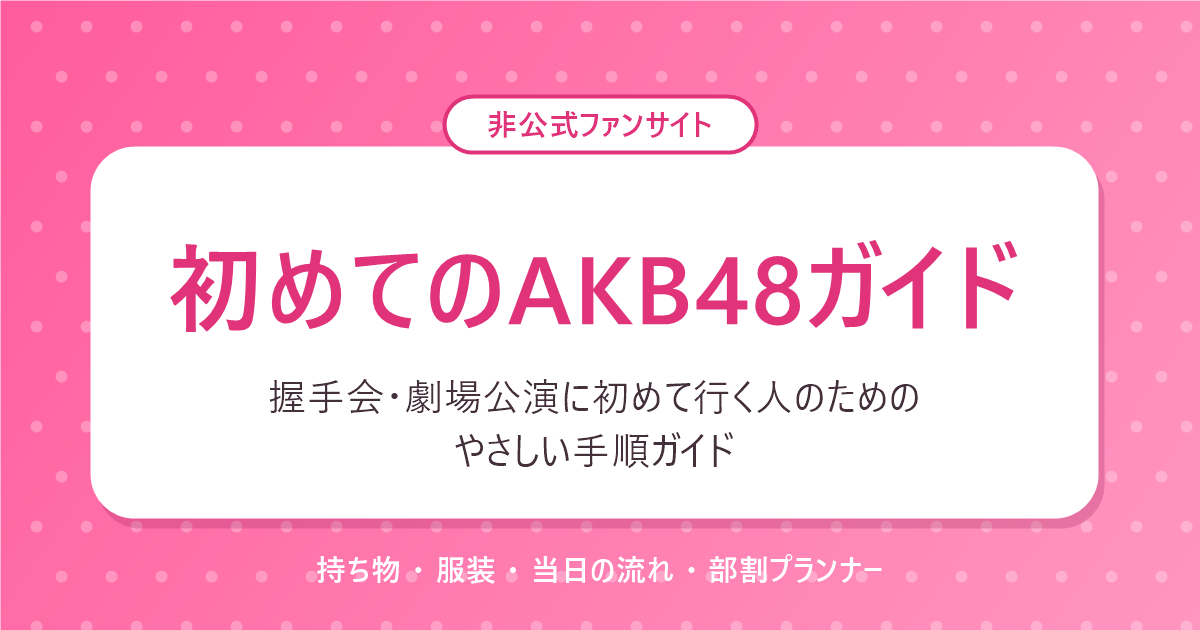
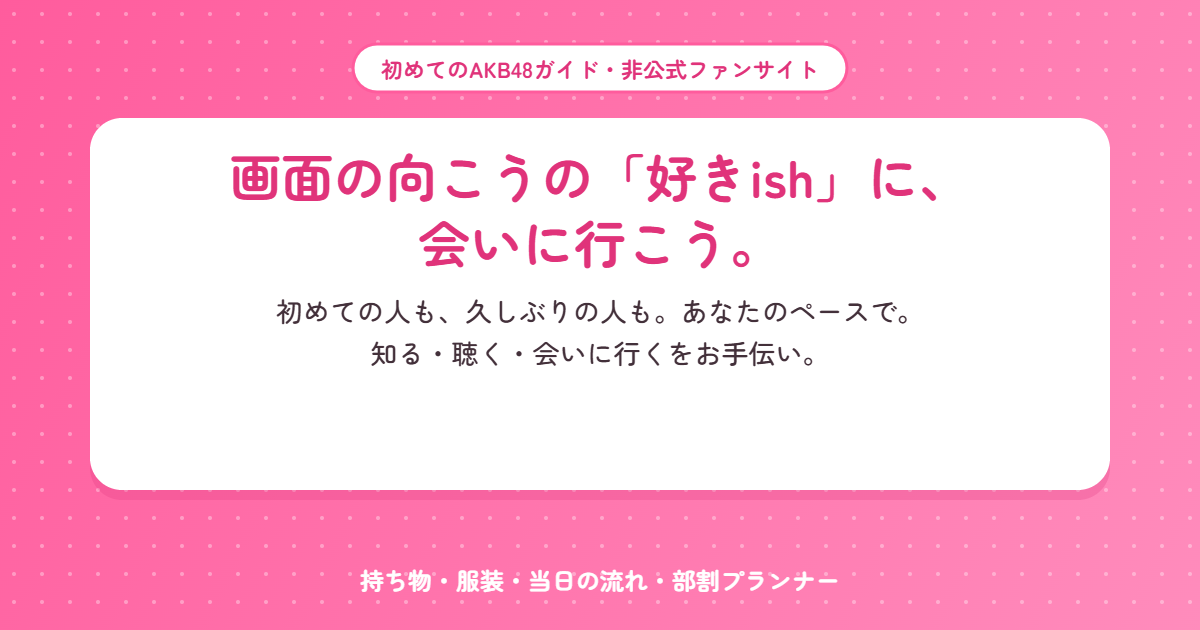
OGPカードをトップの新しいキャッチコピーに更新
index.html・live-setlist.htmlのog:title/og:description/twitter:タグと、ogp.png画像を、現在のトップページの見出しに合わせて更新。ページ本文は変更なし。ぱちゃがプレビューで確認・承認済み。

diff --git a/site/index.html b/site/index.html
@@ -4,18 +4,21 @@
   <meta charset="UTF-8">
   <meta name="viewport" content="width=device-width, initial-scale=1">
   <script src="analytics.js"></script>
-  <title>初めてのAKB48ガイド|ライブ・握手会・劇場公演の初心者向けガイド(非公式)</title>
-  <meta name="description" content="初めてAKB48のライブ・握手会・劇場公演に行く人のための、やさしいガイド。どれに行くか迷う人向けの比較、費用・当日の流れ・持ち物、部割プランナーをまとめています。(非公式ファンサイト)">
+  <title>初めてのAKB48ガイド|画面の向こうの「好きish」に、会いに行こう(非公式)</title>
+  <meta name="description" content="初めての人も、久しぶりの人も。あなたのペースで、知る・聴く・会いに行くをお手伝いする、AKB48の非公式ファンサイトです。ライブ・握手会・劇場公演のやさしいガイド。">
   <link rel="canonical" href="https://akb-hajimete-guide.netlify.app/">
   <meta property="og:type" content="website">
   <meta property="og:site_name" content="初めてのAKB48ガイド">
   <meta property="og:locale" content="ja_JP">
-  <meta property="og:title" content="初めてのAKB48ガイド(非公式ファンサイト)">
-  <meta property="og:description" content="握手会・劇場公演に初めて行く人のための、やさしい手順ガイド。持ち物、服装、当日の流れ、部割プランナーをまとめています。">
+  <meta property="og:title" content="画面の向こうの「好きish」に、会いに行こう。">
+  <meta property="og:description" content="初めての人も、久しぶりの人も。あなたのペースで。知る・聴く・会いに行くをお手伝い。">
   <meta property="og:url" content="https://akb-hajimete-guide.netlify.app/">
-  <meta property="og:image" content="https://akb-hajimete-guide.netlify.app/ogp.png">
+  <meta property="og:image" content="https://akb-hajimete-guide.netlify.app/ogp.png?v=20260927">
   <meta property="og:image:alt" content="初めてのAKB48ガイド(非公式ファンサイト)">
   <meta name="twitter:card" content="summary_large_image">
+  <meta name="twitter:title" content="画面の向こうの「好きish」に、会いに行こう。">
+  <meta name="twitter:description" content="初めての人も、久しぶりの人も。あなたのペースで。知る・聴く・会いに行くをお手伝い。">
+  <meta name="twitter:image" content="https://akb-hajimete-guide.netlify.app/ogp.png?v=20260927">
   <link rel="stylesheet" href="style.css">
 </head>
 <body>

diff --git a/site/live-setlist.html b/site/live-setlist.html
@@ -10,12 +10,15 @@
   <meta property="og:type" content="website">
   <meta property="og:site_name" content="初めてのAKB48ガイド">
   <meta property="og:locale" content="ja_JP">
-  <meta property="og:title" content="ライブのセットリスト|THREE CONCEPTS LIVE">
-  <meta property="og:description" content="公演で聴いた曲を、Apple Music・Spotify・YouTube Musicで探せます。">
+  <meta property="og:title" content="画面の向こうの「好きish」に、会いに行こう。">
+  <meta property="og:description" content="初めての人も、久しぶりの人も。あなたのペースで。知る・聴く・会いに行くをお手伝い。">
   <meta property="og:url" content="https://akb-hajimete-guide.netlify.app/live-setlist.html">
-  <meta property="og:image" content="https://akb-hajimete-guide.netlify.app/ogp.png">
+  <meta property="og:image" content="https://akb-hajimete-guide.netlify.app/ogp.png?v=20260927">
   <meta property="og:image:alt" content="初めてのAKB48ガイド(非公式ファンサイト)">
   <meta name="twitter:card" content="summary_large_image">
+  <meta name="twitter:title" content="画面の向こうの「好きish」に、会いに行こう。">
+  <meta name="twitter:description" content="初めての人も、久しぶりの人も。あなたのペースで。知る・聴く・会いに行くをお手伝い。">
+  <meta name="twitter:image" content="https://akb-hajimete-guide.netlify.app/ogp.png?v=20260927">
   <link rel="stylesheet" href="style.css">
 </head>
 <body class="theme-live">
